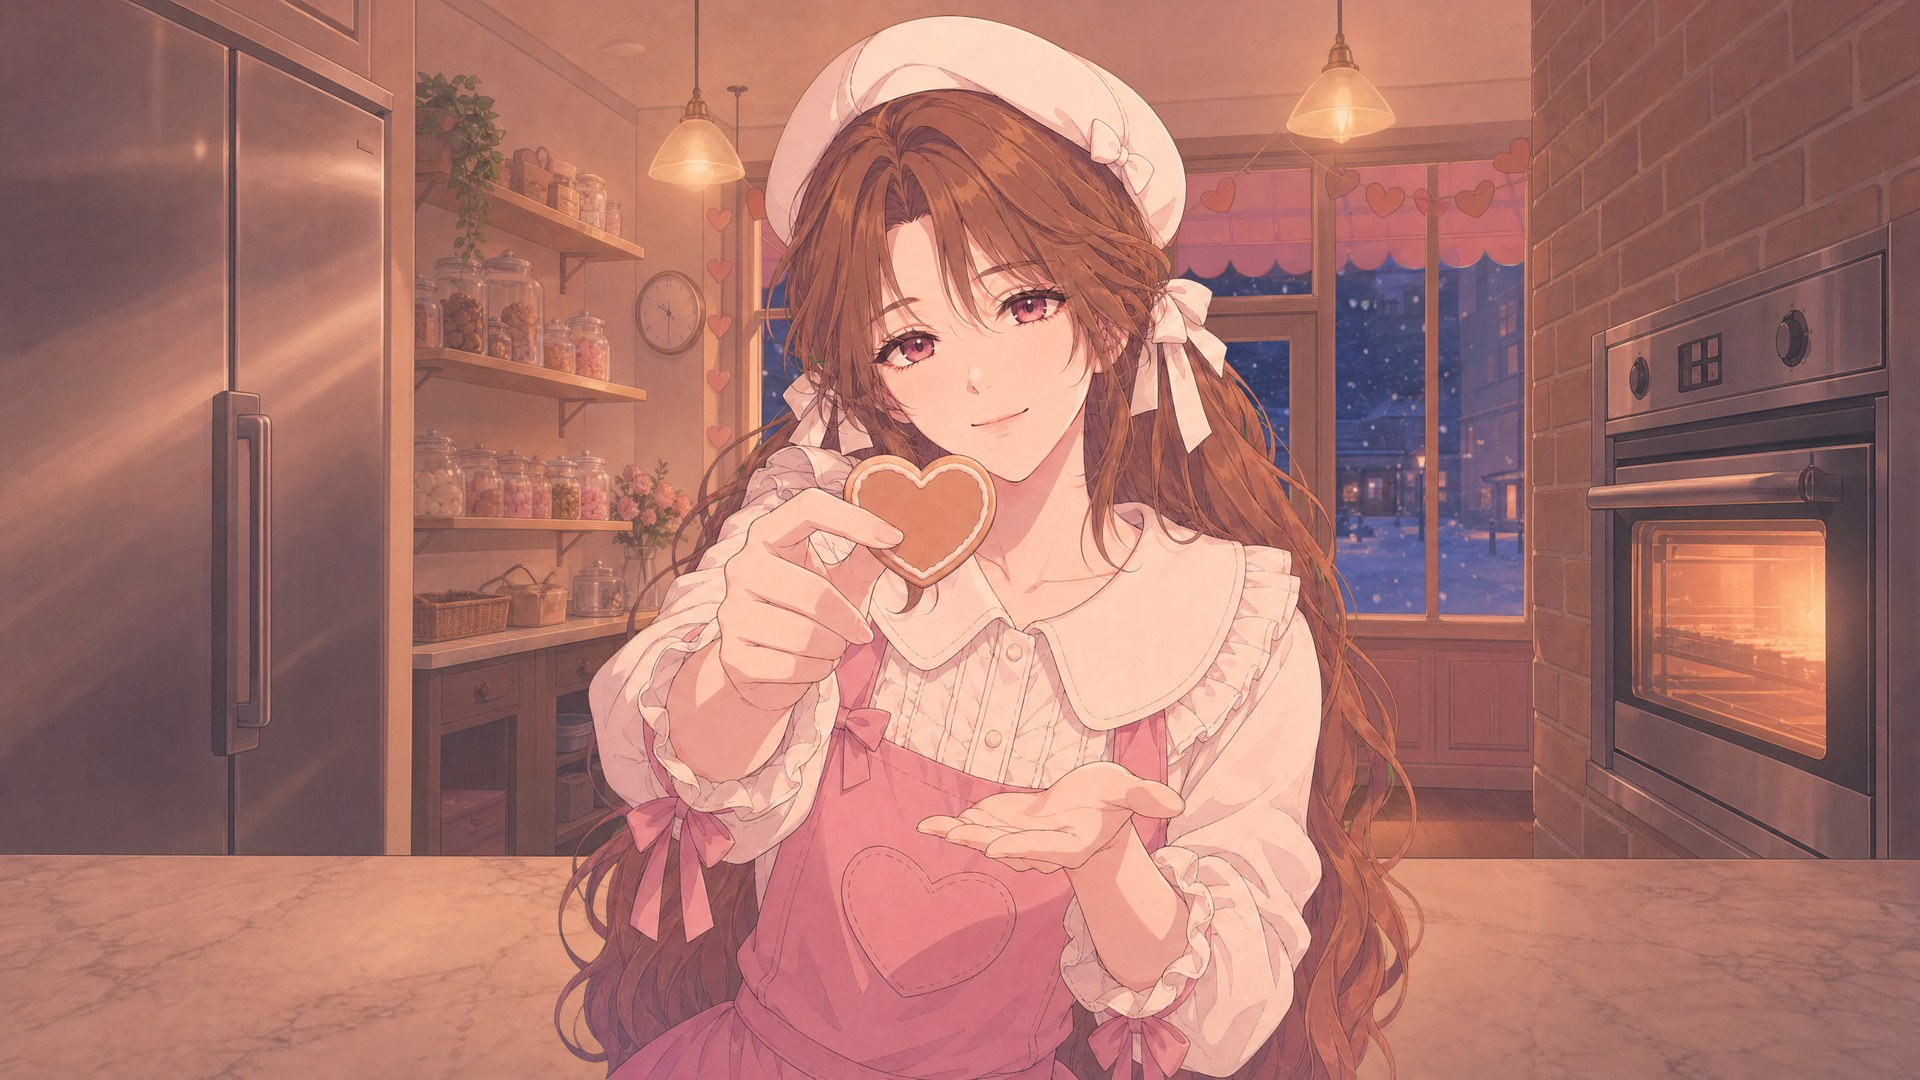
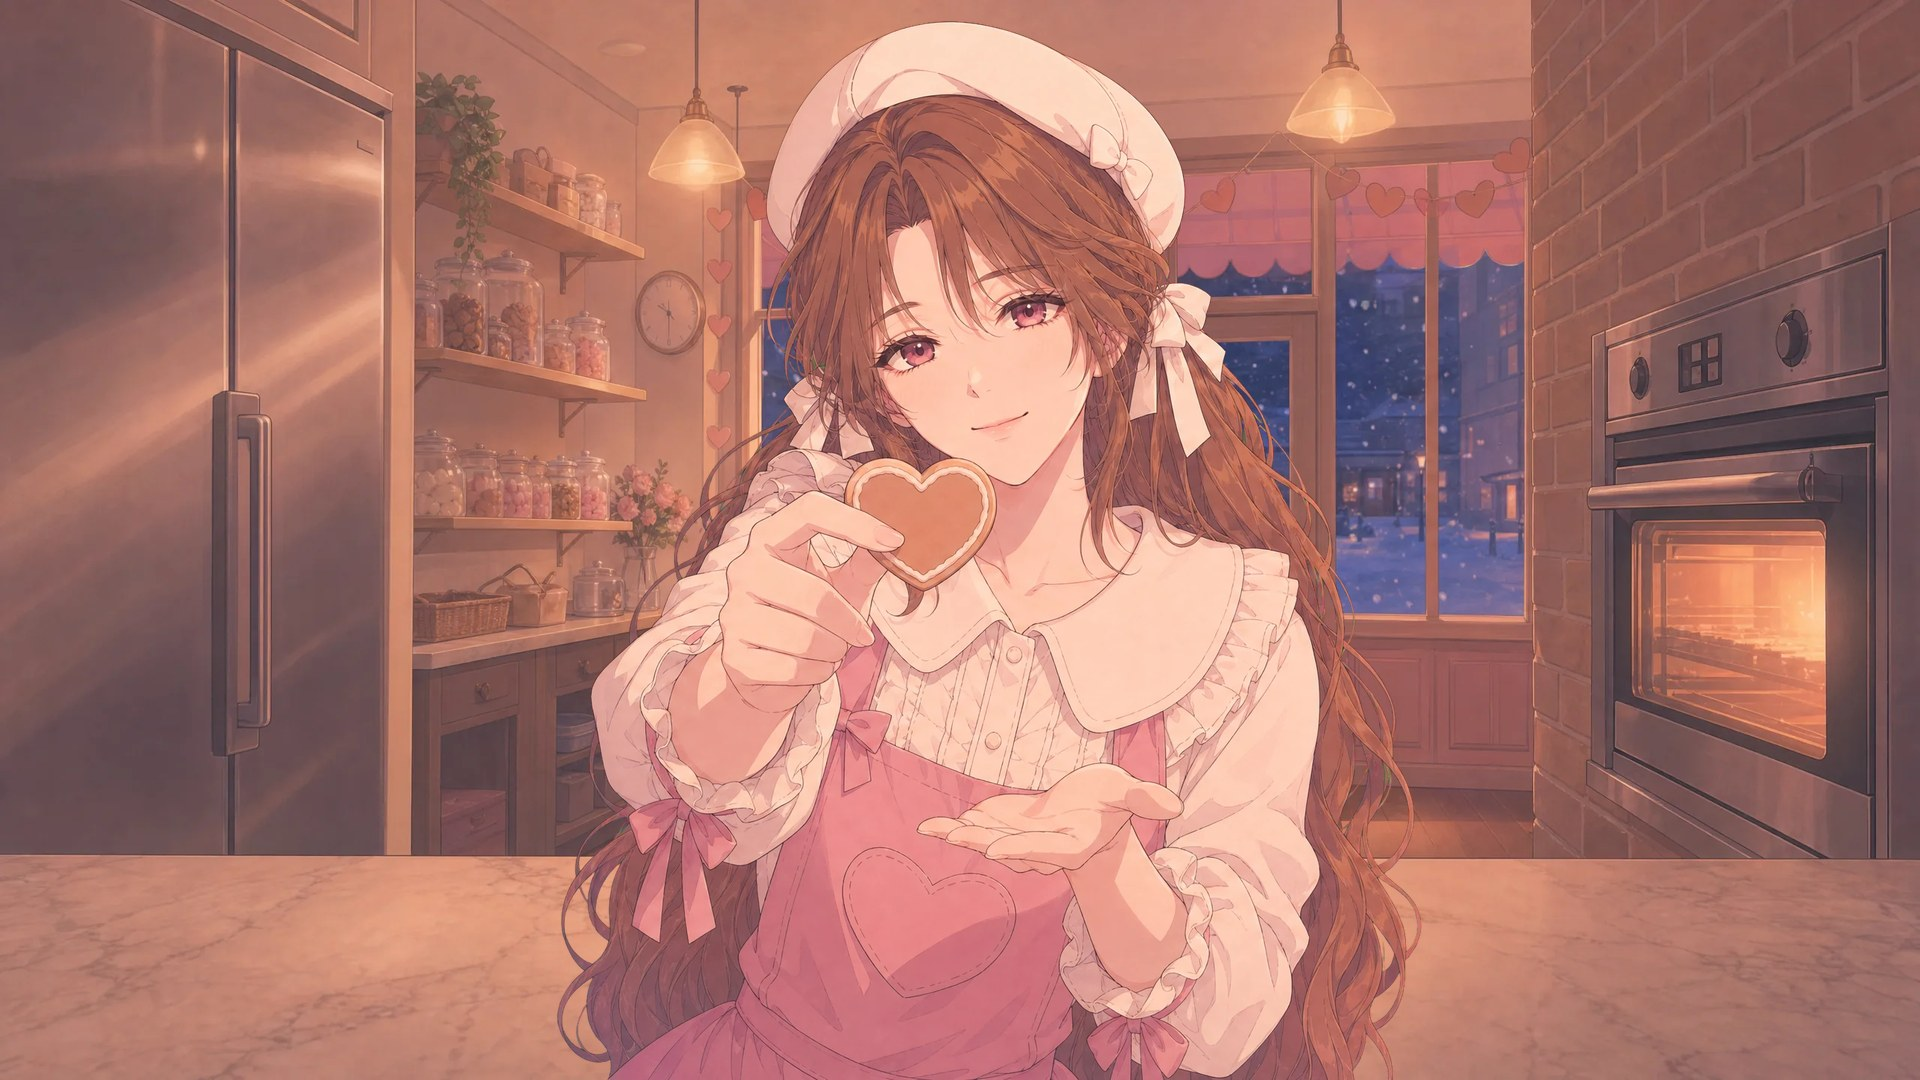
Demo17_CocoaStream: figures moved a little so complete edges sit ≥ 1 % inside / cut edges ≥ 1.5 % outside the frame (place_view.py, no rebuild)

diff --git a/demos/for-men/Demo17_CocoaStream/media/layers.js b/demos/for-men/Demo17_CocoaStream/media/layers.js
@@ -260,7 +260,7 @@ window.MOHEAT_LAYERS = {
     "h": 1427,
     "x": 0.515,
     "y": 1.0,
-    "height": 0.991,
+    "height": 0.985,
     "box": [
      732,
      13,
